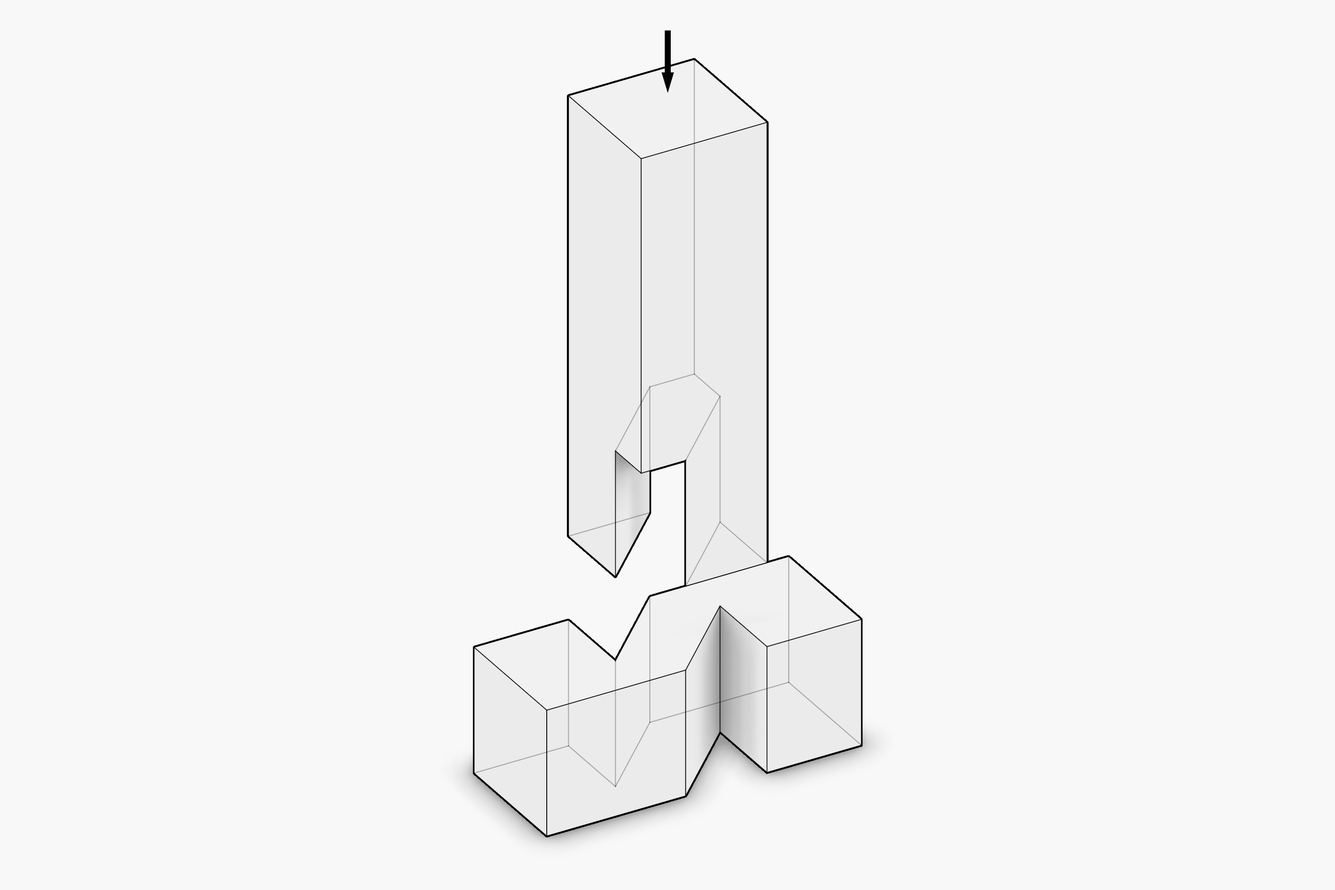
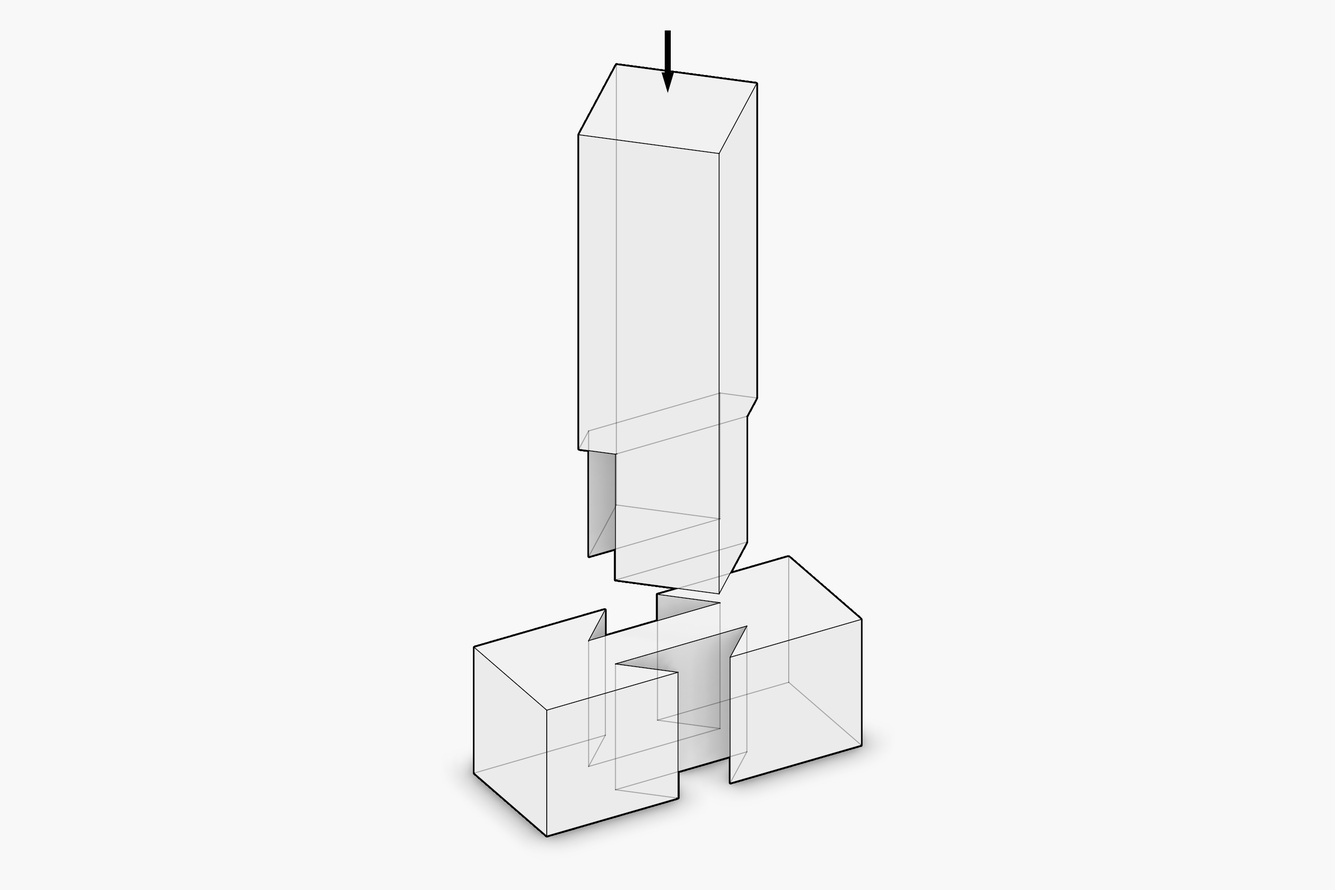
Joint library: diagonally cut T-bridle (p. 566) with the post alone turned 45 degrees (member_turn): a slot along its diagonal leaves two triangular tines, housed by V-notches through the beam around a neck

Changed region(s): [[0.43, 0.091, 0.5835, 0.9101], [0.4607, 0.0607, 0.5528, 0.091], [0.43, 0.8191, 0.4607, 0.8494]]

diff --git a/src/joinery_solver/wood_elements/wood_joint_library.cpp b/src/joinery_solver/wood_elements/wood_joint_library.cpp
@@ -345,11 +345,20 @@ std::vector<std::shared_ptr<EdgeStraightElement>> library_members(const std::str
     const LibraryRecord record = library_record(design);
     double length = 300.0;
     bool upright = false;
+    double member_turn = 0.0;
     for (const std::string& line : record.lists.count("parameters") ? record.lists.at("parameters") : std::vector<std::string>()) {
         if (unquoted(line.substr(0, line.find('='))) == "beam_length")
             length = std::stod(line.substr(line.find('=') + 1));
         if (unquoted(line.substr(0, line.find('='))) == "upright")
             upright = std::stod(line.substr(line.find('=') + 1)) > 0.5;
+        if (unquoted(line.substr(0, line.find('='))) == "member_turn")
+            member_turn = std::stod(line.substr(line.find('=') + 1));
+    }
+
+    // member_turn turns the member alone about its own axis, in degrees (a post set diagonally under a square beam)
+    if (member_turn != 0.0) {
+        const Line axis = Line::from_points(members[0]->axis.get_point(0), members[0]->axis.get_point(1));
+        members[0] = members[0]->transformed(Xform::rotation_around_line(axis, member_turn, true));
     }
     for (const std::string& line : record.lists.count("more") ? record.lists.at("more") : std::vector<std::string>()) {
         const size_t equals = line.find('=');

diff --git a/src/joinery_solver/wood_elements/wood_element_joint_beam.cpp b/src/joinery_solver/wood_elements/wood_element_joint_beam.cpp
@@ -2775,7 +2775,11 @@ std::shared_ptr<JointBeamElement> JointBeamElement::from_library(
         const Vector w = n.cross(t).normalized();
         const Vector p = w.cross(u).normalized();
         const size_t j = std::abs(a_section.first[0].dot(w)) >= std::abs(a_section.first[1].dot(w)) ? 0 : 1;
-        if (std::abs(a_section.first[j].dot(w)) < 0.95)
+        // a record's member_turn turns a's square section on purpose (a post set diagonally under a beam)
+        bool member_turned = false;
+        for (const std::string& line : record.lists["parameters"])
+            member_turned = member_turned || split_top(line, '=')[0] == "member_turn";
+        if (!member_turned && std::abs(a_section.first[j].dot(w)) < 0.95)
             throw std::invalid_argument(fmt::format("{}: the section of {} is turned against {}", design, a.name, b.name));
 
         // sizes: half of a across and along the lean, half of b's depth, its width across the joint and along the lean
